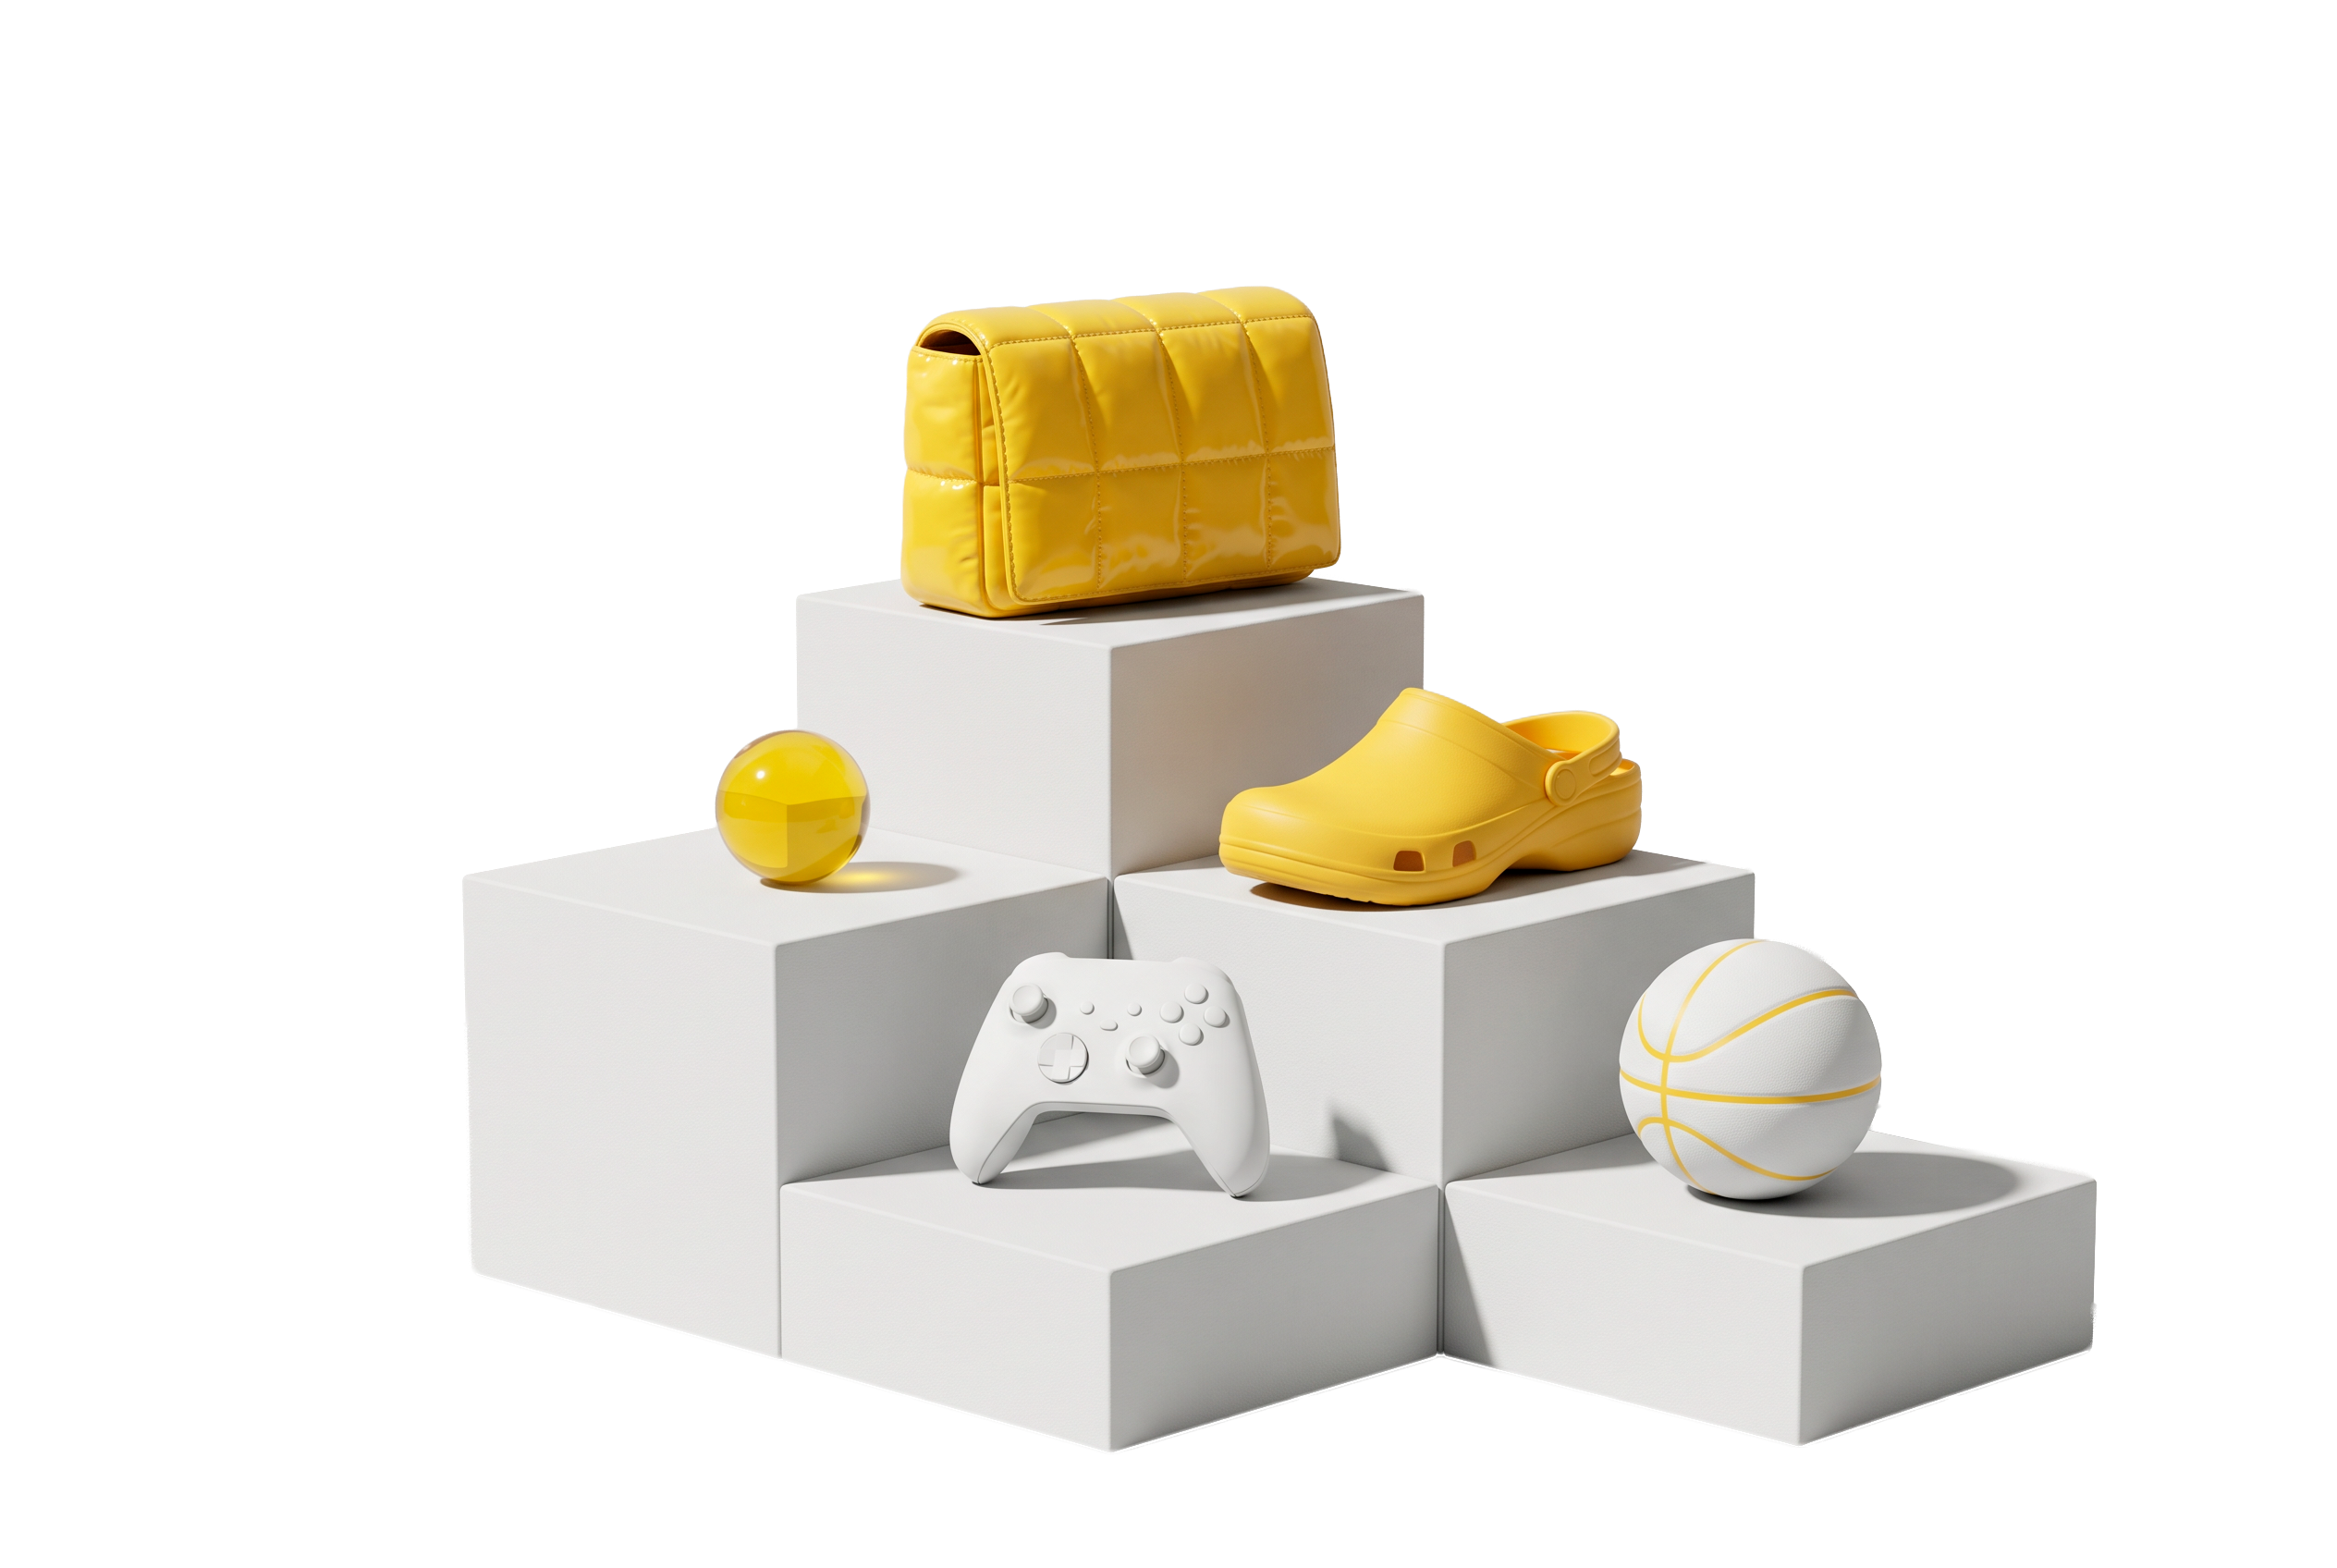
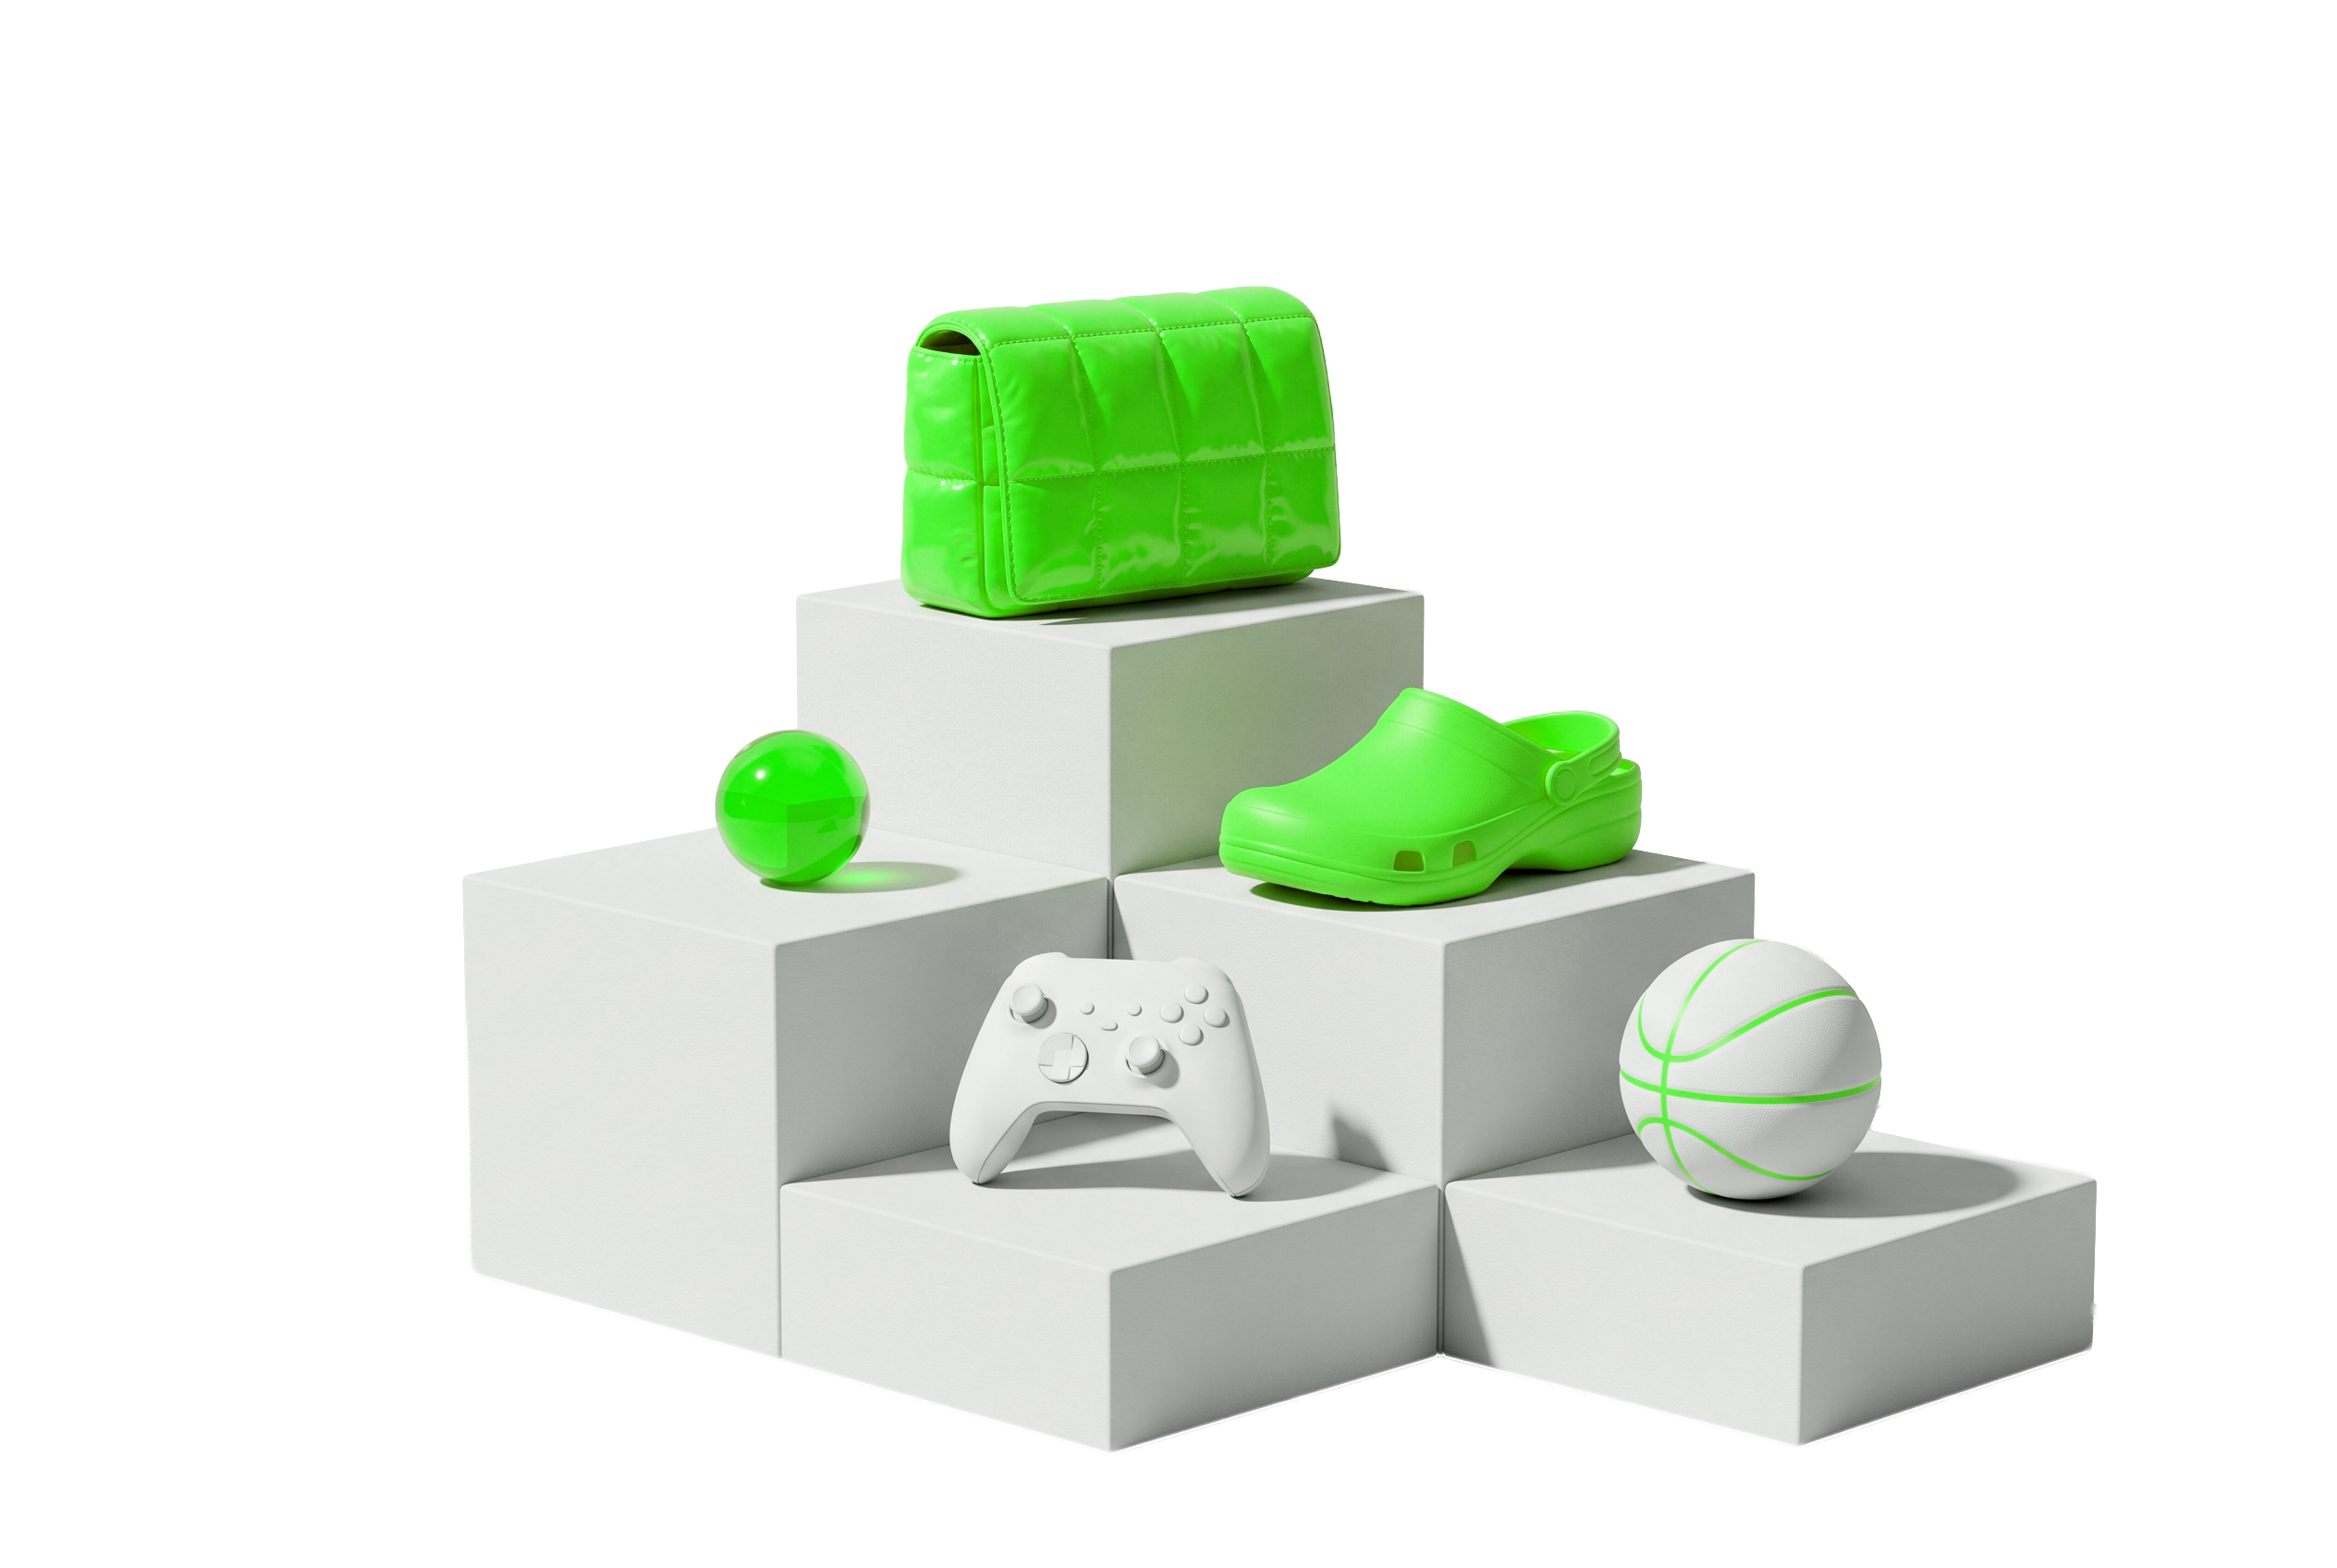
feat: add custom CSS and project assets while updating contact details and .gitignore

diff --git a/index.html b/index.html
@@ -267,11 +267,11 @@
         </a>
 
         <!-- Project 06 -->
-        <a href="https://dupuydawson.myportfolio.com/agapes" class="project-card" id="project-card-06"
-          target="_blank" rel="noopener">
+        <a href="https://dupuydawson.myportfolio.com/agapes" class="project-card" id="project-card-06" target="_blank"
+          rel="noopener">
           <div class="project-image-container">
-            <img src="project_images/agapes/img_1.jpg" alt="Les Agapes - Brand Identity"
-              class="project-image mockup" loading="lazy">
+            <img src="project_images/agapes/img_1.jpg" alt="Les Agapes - Brand Identity" class="project-image mockup"
+              loading="lazy">
             <img src="project_images/agapes/visu agapes barrils.png" alt="Les Agapes - Wine Bottles on Barrels"
               class="project-image logo full-cover" loading="lazy">
           </div>
@@ -303,13 +303,13 @@
         </a>
 
         <!-- Project 08 -->
-        <a href="https://dupuydawson.myportfolio.com/echo" class="project-card" id="project-card-08"
-          target="_blank" rel="noopener">
+        <a href="https://dupuydawson.myportfolio.com/echo" class="project-card" id="project-card-08" target="_blank"
+          rel="noopener">
           <div class="project-image-container">
             <img src="project_images/echo/img_1.jpg" alt="Echo Brand Design" class="project-image mockup"
               loading="lazy">
-            <img src="project_images/echo/b4d9272f-43f8-40cd-9791-c3c3ce1dd200.jpg" alt="Echo Brand Identity Details" class="project-image logo full-cover"
-              loading="lazy">
+            <img src="project_images/echo/b4d9272f-43f8-40cd-9791-c3c3ce1dd200.jpg" alt="Echo Brand Identity Details"
+              class="project-image logo full-cover" loading="lazy">
           </div>
           <div class="project-info">
             <div>
@@ -526,9 +526,9 @@
             <div>
               <h4 class="footer-nav-title">Daw Studio</h4>
               <ul>
-                <li><a href="mailto:[email redacted]">[email redacted]</a></li>
+                <li><a href="mailto:[email redacted]">[email redacted]</a></li>
                 <li><a href="tel:[phone redacted]">[phone redacted]</a></li>
-                <li><a href="https://www.instagram.com/daw.design/" target="_blank" rel="noopener">Insta : daw.design</a></li>
+                <li><a href="https://www.instagram.com/daw.design/" target="_blank" rel="noopener">Instagram</a></li>
               </ul>
             </div>
           </div>
@@ -538,7 +538,7 @@
 
       <!-- Footer Bottom Copyright & Terms -->
       <div class="footer-bottom">
-        <p class="footer-copy">&copy; 2026 DAW. Tous droits réservés. Agence de design & branding, Normandie, France.
+        <p class="footer-copy">&copy; 2025 DAW. Tous droits réservés. Agence de design & branding, Normandie, France.
         </p>
         <a href="#" class="footer-meta-link" id="footer-legal-link">Mentions Légales & RPD</a>
       </div>

diff --git a/assets/css/styles.css b/assets/css/styles.css
@@ -125,11 +125,6 @@ html {
 
 body {
   background-color: var(--color-bg);
-  /* Elegant technical architectural grid background */
-  background-image: 
-    radial-gradient(var(--grid-bg-color) 1.2px, transparent 1.2px);
-  background-size: 48px 48px;
-  background-position: center top;
   color: var(--color-text);
   font-family: var(--font-sans);
   font-weight: 400;
@@ -384,7 +379,7 @@ header.is-scrolled {
   margin-bottom: 1.5rem;
   position: relative;
   display: inline-block;
-  line-height: 0.8;
+  line-height: 0.95;
 }
 
 /* Orange text outline wrapper or emphasis */
@@ -410,6 +405,12 @@ header.is-scrolled {
   opacity: 0;
   filter: blur(8px);
   transform: translateY(10px);
+  padding-right: 0.12em;
+  margin-right: -0.06em;
+  padding-top: 0.15em;
+  padding-bottom: 0.15em;
+  margin-top: -0.15em;
+  margin-bottom: -0.15em;
 }
 
 .text-reveal.visible .fade-letter {